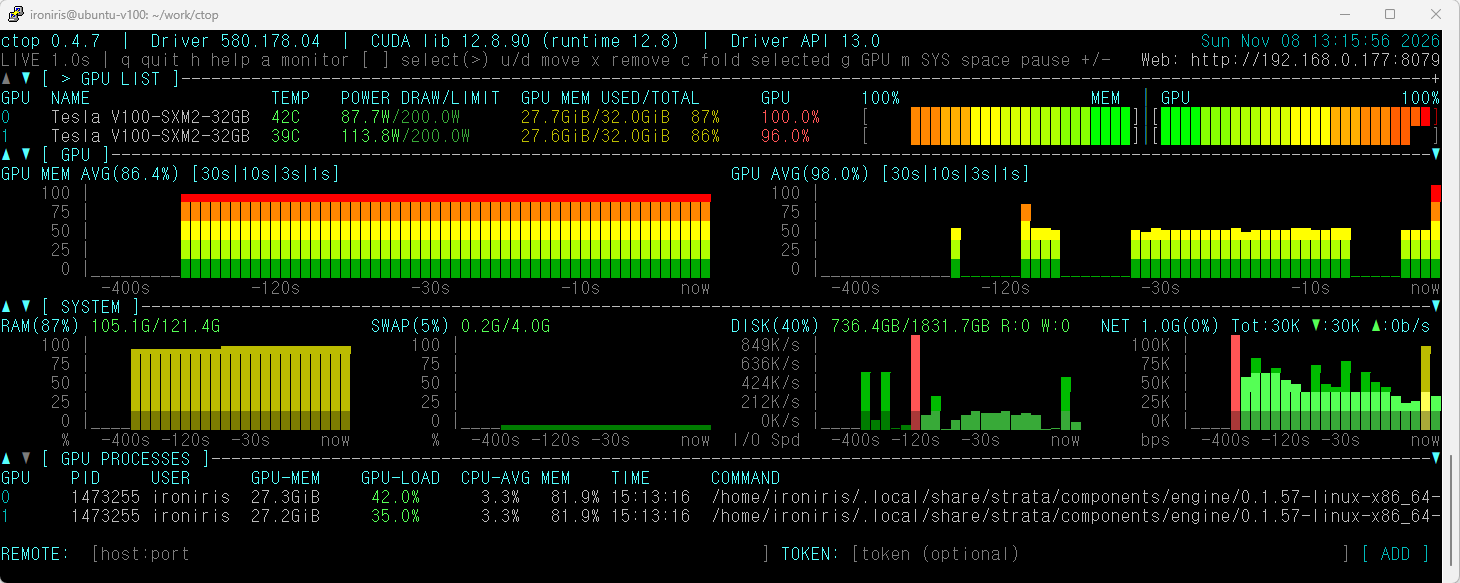
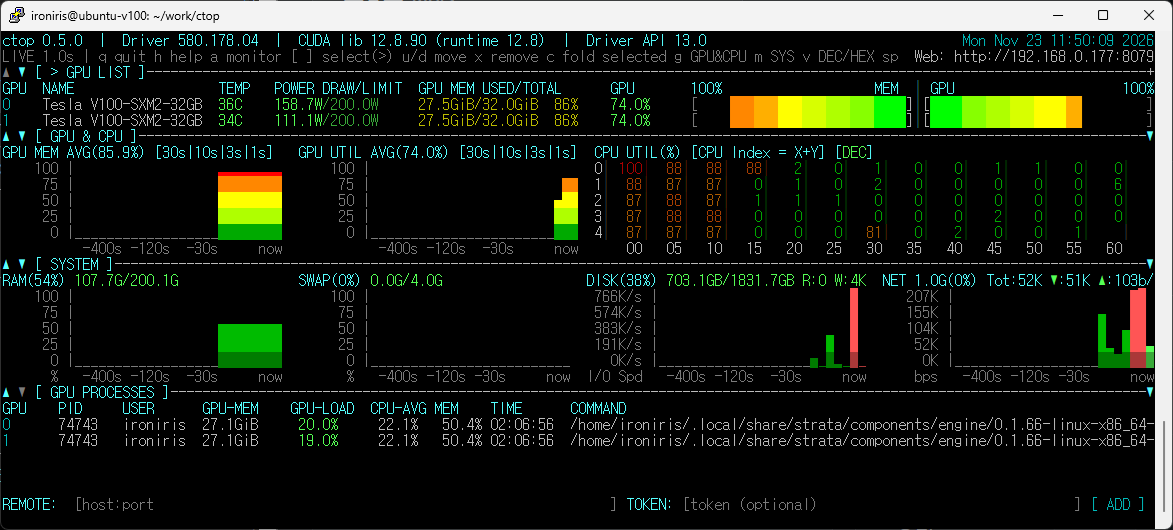
Release v0.5.0

diff --git a/ctop.c b/ctop.c
@@ -41,8 +41,10 @@
 
 #include "web_assets.h"
 
-#define CTOP_VERSION "0.4.8"
+#define CTOP_VERSION "0.5.0"
 #define GRAPH_ROWS 5
+#define CPU_GRID_STEP 5
+#define MAX_CPU_CORES 512
 #define HISTORY_LIMIT 16384
 #define MAX_GPUS 32
 #define MAX_REMOTE_MONITORS 4
@@ -62,6 +64,7 @@
 #define UI_KEY_FOCUS_MONITOR 0x10
 #define UI_KEY_SUBMIT_MONITOR 0x11
 #define UI_KEY_FOCUS_TOKEN 0x12
+#define UI_KEY_CPU_FORMAT 0x13
 #define UI_KEY_MOVE_SECTION_UP_BASE 0xE0
 #define UI_KEY_MOVE_SECTION_DOWN_BASE 0xF0
 
@@ -210,6 +213,9 @@ typedef struct {
     unsigned long long swap_used;
     unsigned long long swap_total;
     double swap_percent;
+    double cpu_core_percent[MAX_CPU_CORES];
+    int cpu_core_count;
+    bool cpu_cores_valid;
 } SystemInfo;
 
 typedef struct {
@@ -270,6 +276,12 @@ typedef struct {
     bool valid;
 } CpuPrevious;
 
+typedef struct {
+    unsigned long long total_ticks;
+    unsigned long long idle_ticks;
+    bool valid;
+} CpuCoreTicks;
+
 #if defined(CTOP_ENABLE_VULKAN)
 typedef struct {
     pid_t pid;
@@ -319,6 +331,9 @@ typedef struct {
     bool usage_collapsed;
     bool system_collapsed;
     bool processes_collapsed;
+    bool cpu_grid_hex;
+    bool cpu_grid_hex_manual;
+    bool cpu_grid_hex_auto;
     int selected_gpu;
     int selected_source_id;
     pid_t selected_pid;
@@ -408,6 +423,7 @@ static CpuPrevious cpu_previous[MAX_CPU_PROCESSES];
 static size_t cpu_previous_count = 0;
 static CpuPrevious cpu_current[MAX_CPU_PROCESSES];
 static size_t cpu_current_count = 0;
+static CpuCoreTicks cpu_core_previous[MAX_CPU_CORES];
 #if defined(CTOP_ENABLE_VULKAN)
 static DrmProcessPrevious drm_process_previous[MAX_GPU_PROCESSES * MAX_GPUS];
 static size_t drm_process_previous_count;
@@ -1170,6 +1186,46 @@ static void fill_process_info(ProcessInfo *process, unsigned long long total_tic
     }
 }
 
+static void read_cpu_core_usage(SystemInfo *system) {
+    FILE *file = fopen("/proc/stat", "r");
+    if (!file) return;
+    char line[512];
+    int seen = 0;
+    while (fgets(line, sizeof(line), file)) {
+        if (strncmp(line, "cpu", 3) != 0) break;
+        if (line[3] < '0' || line[3] > '9') continue;
+        int core = -1;
+        unsigned long long values[10] = {0};
+        int count = sscanf(line,
+                           "cpu%d %llu %llu %llu %llu %llu %llu %llu %llu %llu %llu",
+                           &core, &values[0], &values[1], &values[2], &values[3],
+                           &values[4], &values[5], &values[6], &values[7],
+                           &values[8], &values[9]);
+        if (count != 11 || core < 0 || core >= MAX_CPU_CORES) continue;
+        unsigned long long total = 0;
+        for (int i = 0; i < count - 1; i++) total += values[i];
+        /* idle includes iowait (and guest time, which Linux already accounts for). */
+        unsigned long long idle = values[3] + values[4];
+        CpuCoreTicks *previous = &cpu_core_previous[core];
+        if (previous->valid && total > previous->total_ticks) {
+            unsigned long long total_delta = total - previous->total_ticks;
+            unsigned long long idle_delta = idle > previous->idle_ticks
+                                                ? idle - previous->idle_ticks : 0;
+            if (idle_delta <= total_delta) {
+                double usage = 100.0 * (double)(total_delta - idle_delta) / (double)total_delta;
+                system->cpu_core_percent[core] = usage;
+            }
+        }
+        previous->total_ticks = total;
+        previous->idle_ticks = idle;
+        previous->valid = true;
+        if (core + 1 > seen) seen = core + 1;
+    }
+    fclose(file);
+    system->cpu_core_count = seen;
+    system->cpu_cores_valid = seen > 0;
+}
+
 static bool read_system_info(SystemInfo *system) {
     FILE *file = fopen("/proc/meminfo", "r");
     if (!file) return false;
@@ -1194,6 +1250,7 @@ static bool read_system_info(SystemInfo *system) {
     unsigned long long swap_free = swap_free_kb * 1024ULL;
     system->swap_used = system->swap_total > swap_free ? system->swap_total - swap_free : 0;
     system->swap_percent = system->swap_total ? 100.0 * (double)system->swap_used / (double)system->swap_total : 0.0;
+    read_cpu_core_usage(system);
     return true;
 }
 
@@ -2479,6 +2536,83 @@ static void draw_disk_plot(Screen *screen, int top, int left, int width,
                            history_peak_400(history), GRAPH_AXIS_DISK_RATE, false, "I/O Spd");
 }
 
+static void add_click_target(UiState *ui, int row, int left, int right, unsigned char key);
+
+static bool cpu_grid_hex_mode(const UiState *ui) {
+    return ui->cpu_grid_hex_manual ? ui->cpu_grid_hex : ui->cpu_grid_hex_auto;
+}
+
+static void toggle_cpu_grid_format(UiState *ui) {
+    ui->cpu_grid_hex = !cpu_grid_hex_mode(ui);
+    ui->cpu_grid_hex_manual = true;
+}
+
+/* CPU core utilization grid. Rows are Y=0..4 (top to bottom), columns are
+   X values in steps of CPU_GRID_STEP; cell (X, Y) is CPU index X + Y. */
+static void draw_cpu_core_grid(Screen *screen, int top, int left, int width,
+                               const SystemInfo *system, UiState *ui) {
+    ui->cpu_grid_hex_auto = system->cpu_core_count > 99;
+    bool hex = cpu_grid_hex_mode(ui);
+    const char *mode_label = hex ? "HEX" : "DEC";
+    char title[96];
+    snprintf(title, sizeof(title), "CPU UTIL(%s) [CPU Index = X+Y] [%s]", "%", mode_label);
+    int button_left = left + (int)strlen(title) - 4; /* first character inside [ ] */
+    screen_put_attr(screen, top, left, title, width, ATTR_CYAN_BOLD);
+    if (button_left + 3 <= left + width && button_left >= 0 && button_left < screen->cols)
+        screen_put_attr(screen, top, button_left, mode_label, 3, ATTR_TEXT_GREEN);
+    const int label_width = 2; /* Y label plus the vertical divider */
+    const int min_cell_width = 4;
+    const int max_cell_width = 8;
+    int usable = width - label_width;
+    int needed = 0;
+    if (system->cpu_cores_valid && system->cpu_core_count > 0)
+        needed = (system->cpu_core_count + CPU_GRID_STEP - 1) / CPU_GRID_STEP;
+    if (needed == 0) {
+        screen_put_attr(screen, top + 1, left, "CPU core data unavailable", width, ATTR_DIM);
+        return;
+    }
+    int columns = needed;
+    if (columns > usable / min_cell_width) columns = usable / min_cell_width;
+    if (columns < 1) {
+        screen_put_attr(screen, top + 1, left, "terminal too narrow", width, ATTR_DIM);
+        return;
+    }
+    /* Spread the grid across the available width, up to a readable cell size. */
+    int cell_width = usable / columns;
+    if (cell_width > max_cell_width) cell_width = max_cell_width;
+    if (cell_width < min_cell_width) cell_width = min_cell_width;
+
+    for (int y = 0; y < GRAPH_ROWS; y++) {
+        int row = top + 1 + y;
+        screen_putf(screen, row, left, 1, "%d", y);
+        screen_overlay(screen, row, left + 1, "\xE2\x94\x82", ATTR_DIM);
+        for (int x = 0; x < columns; x++) {
+            int cpu_index = x * CPU_GRID_STEP + y;
+            int cell_left = left + label_width + x * cell_width;
+            if (cpu_index < system->cpu_core_count) {
+                double usage = system->cpu_core_percent[cpu_index];
+                if (usage < 0.0) usage = 0.0;
+                if (usage > 100.0) usage = 100.0;
+                screen_putf_attr(screen, row, cell_left, cell_width - 1,
+                                 gradient_attr((int)usage, 101), "%*.0f",
+                                 cell_width - 1, usage);
+            }
+            screen_overlay(screen, row, cell_left + cell_width - 1,
+                           "\xE2\x94\x82", ATTR_DIM);
+        }
+    }
+    int label_row = top + 1 + GRAPH_ROWS;
+    for (int x = 0; x < columns; x++) {
+        int cell_left = left + label_width + x * cell_width;
+        char x_label[8];
+        snprintf(x_label, sizeof(x_label), hex ? "%02X" : "%02d", x * CPU_GRID_STEP);
+        screen_putf(screen, label_row, cell_left, cell_width - 1, "%*s",
+                    cell_width - 1, x_label);
+    }
+    if (button_left > 0 && button_left + 4 <= screen->cols)
+        add_click_target(ui, top, button_left - 1, button_left + 4, UI_KEY_CPU_FORMAT);
+}
+
 static void draw_load_bar(Screen *screen, int row, int start, double memory, double gpu) {
     int width = screen->cols - start;
     if (width < 10) return;
@@ -3109,7 +3243,7 @@ static void draw_header(Screen *screen, const char *driver, const char *cuda_lib
     ui->click_target_count = 0;
     char controls[256];
     snprintf(controls, sizeof(controls),
-             "%s %.1fs | q quit h help a monitor [ ] select(>) u/d move x remove c fold selected g GPU m SYS space pause +/- rate r reset j next k kill",
+             "%s %.1fs | q quit h help a monitor [ ] select(>) u/d move x remove c fold selected g GPU&CPU m SYS v DEC/HEX space pause +/- rate r reset j next k kill",
              paused ? "PAUSED" : "LIVE", interval);
     int controls_width = screen->cols;
     if (active_web_port && active_web_url[0]) {
@@ -3127,7 +3261,7 @@ static void draw_header(Screen *screen, const char *driver, const char *cuda_lib
         {"[ ] select", '[', 0}, {"[ ] select", ']', 2},
         {"u/d move", 'u', 0}, {"u/d move", 'd', 2},
         {"x remove", 'x', 0}, {"c fold", 'c', 0},
-        {"g GPU", 'g', 0}, {"m SYS", 'm', 0}, {"space pause", ' ', 0},
+        {"g GPU&CPU", 'g', 0}, {"m SYS", 'm', 0}, {"v DEC/HEX", 'v', 0}, {"space pause", ' ', 0},
         {"+/- rate", '+', 0}, {"+/- rate", '-', 2},
         {"r reset", 'r', 0}, {"j next", 'j', 0}, {"k kill", 'k', 0},
     };
@@ -3247,7 +3381,7 @@ static void dashboard_section_title(char *out, size_t size, const DashboardSecti
             if (monitor) prefix = monitor->prefix;
         }
     }
-    const char *name = section->type == SECTION_GPU ? "GPU" :
+    const char *name = section->type == SECTION_GPU ? "GPU & CPU" :
                        section->type == SECTION_SYSTEM ? "SYSTEM" : "GPU PROCESSES";
     if (prefix[0]) snprintf(out, size, "%s(%s)", name, prefix);
     else snprintf(out, size, "%s", name);
@@ -3273,13 +3407,15 @@ static void render_screen(Screen *screen, const GpuInfo *gpus, int gpu_count,
             "h            show/hide this help",
             "click ▲ / ▼ before a section title to move it up/down",
             "click right marker     collapse/expand that section",
+            "click [DEC]/[HEX]      toggle CPU grid label format",
             "a            focus the bottom REMOTE address field",
             "Enter address in REMOTE; optional credentials go in TOKEN",
             "Click ADD to connect; Tab/Enter moves focus to TOKEN and ADD",
             "[ / ]        select a dashboard section (marked with >)",
             "u / d        move selected section up/down",
             "x            remove the selected remote monitor",
-            "g / m        collapse/expand local GPU / SYSTEM",
+            "g / m        collapse/expand local GPU & CPU / SYSTEM",
+            "v            toggle CPU grid DEC/HEX (auto by core count)",
             "Space        pause/resume sampling",
             "+ / -        increase/decrease refresh interval",
             "j            select next GPU process",
@@ -3359,22 +3495,28 @@ static void render_screen(Screen *screen, const GpuInfo *gpus, int gpu_count,
             if (collapsed) {
                 int half = (screen->cols - 2) / 2;
                 screen_putf(screen, y, 0, half, "GPU MEM AVG(%.1f%%)", memory_average);
-                screen_putf(screen, y, half + 2, screen->cols - half - 2, "GPU AVG(%.1f%%)", gpu_average);
+                screen_putf(screen, y, half + 2, screen->cols - half - 2, "GPU UTIL AVG(%.1f%%)", gpu_average);
                 y++;
             } else {
                 int gap = 2;
-                int left_width = (screen->cols - gap) / 2;
-                int right_left = left_width + gap;
-                int right_width = screen->cols - right_left;
+                int panel_space = screen->cols - 3 * gap;
+                int panel_width = panel_space / 4;
+                int remainder = panel_space % 4;
+                int left_width = panel_width + (remainder > 0 ? 1 : 0);
+                int gpu_width = panel_width + (remainder > 1 ? 1 : 0);
+                int gpu_left = left_width + gap;
+                int cpu_left = gpu_left + gpu_width + gap;
+                int cpu_width = screen->cols - cpu_left;
                 char memory_title[64], gpu_title[64];
                 if (memory_count)
                     snprintf(memory_title, sizeof(memory_title), "GPU MEM AVG(%.1f%%) [30s|10s|3s|1s]", memory_average);
                 else snprintf(memory_title, sizeof(memory_title), "GPU MEM AVG(N/A) [30s|10s|3s|1s]");
                 if (gpu_count_valid)
-                    snprintf(gpu_title, sizeof(gpu_title), "GPU AVG(%.1f%%) [30s|10s|3s|1s]", gpu_average);
-                else snprintf(gpu_title, sizeof(gpu_title), "GPU AVG(N/A) [30s|10s|3s|1s]");
+                    snprintf(gpu_title, sizeof(gpu_title), "GPU UTIL AVG(%.1f%%) [30s|10s|3s|1s]", gpu_average);
+                else snprintf(gpu_title, sizeof(gpu_title), "GPU UTIL AVG(N/A) [30s|10s|3s|1s]");
                 draw_plot(screen, y, 0, left_width, view->vram_history, memory_title, NULL, NULL, true);
-                draw_plot(screen, y, right_left, right_width, view->gpu_history, gpu_title, NULL, NULL, true);
+                draw_plot(screen, y, gpu_left, gpu_width, view->gpu_history, gpu_title, NULL, NULL, true);
+                draw_cpu_core_grid(screen, y, cpu_left, cpu_width, view->system, ui);
                 y += 2 + GRAPH_ROWS;
             }
         } else if (section->type == SECTION_SYSTEM) {
@@ -3767,6 +3909,7 @@ static void handle_key(unsigned char key, UiState *ui, bool *paused, bool *help_
         }
     } else if (key == 'g' || key == 'G') ui->usage_collapsed = !ui->usage_collapsed;
     else if (key == 'm' || key == 'M') ui->system_collapsed = !ui->system_collapsed;
+    else if (key == 'v' || key == 'V') toggle_cpu_grid_format(ui);
     else if (key == ' ') *paused = !*paused;
     else if (key == '+' || key == '=') {
         *interval += 0.1;
@@ -3836,6 +3979,8 @@ static void dispatch_key(unsigned char key, UiState *ui, bool *paused, bool *hel
         ui->notice_error = false;
     } else if (key == UI_KEY_SUBMIT_MONITOR) {
         submit_monitor_input(ui);
+    } else if (key == UI_KEY_CPU_FORMAT) {
+        toggle_cpu_grid_format(ui);
     } else if (ui->monitor_prompt) handle_monitor_prompt_key(key, ui);
     else if (key == 'q' || key == 'Q' || (key == 0x1b && !ui->kill_prompt)) *quit = true;
     else handle_key(key, ui, paused, help_visible, interval, vram, gpu, ram, swap,
@@ -4599,6 +4744,23 @@ static bool remote_parse_metrics(RemoteMonitor *monitor, const char *json) {
         json_get_uint(object, "total", &system.swap_total);
         system.swap_percent = system.swap_total ? 100.0 * (double)system.swap_used / (double)system.swap_total : 0.0;
     }
+    if (json_object_field(json, "cpu", &object, NULL)) {
+        int count = 0;
+        json_get_int(object, "count", &count);
+        json_get_bool(object, "valid", &system.cpu_cores_valid);
+        if (count < 0) count = 0;
+        if (count > MAX_CPU_CORES) count = MAX_CPU_CORES;
+        const char *cores, *cores_end;
+        if (json_object_field(object, "cores", &cores, &cores_end) && *cores == '[') {
+            const char *cursor = cores + 1, *item, *item_end;
+            while (system.cpu_core_count < count &&
+                   json_array_next(&cursor, cores_end - 1, &item, &item_end)) {
+                (void)item_end;
+                system.cpu_core_percent[system.cpu_core_count++] = strtod(item, NULL);
+            }
+        }
+        if (system.cpu_core_count == 0) system.cpu_cores_valid = false;
+    }
     if (json_object_field(json, "disk", &object, NULL)) {
         json_get_bool(object, "capacity_valid", &disk.capacity_valid);
         json_get_bool(object, "valid", &disk.valid);
@@ -4948,7 +5110,13 @@ static char *web_metrics_json(const GpuInfo *gpus, int gpu_count,
     fprintf(stream, "},\"swap\":{\"used\":%llu,\"total\":%llu,\"percent\":",
             system->swap_used, system->swap_total);
     json_number(stream, system->swap_percent, true);
-    fprintf(stream, "},\"disk\":{\"used\":%llu,\"total\":%llu,\"capacity_valid\":%s,\"valid\":%s,\"read_bps\":",
+    fprintf(stream, "},\"cpu\":{\"count\":%d,\"valid\":%s,\"cores\":[",
+            system->cpu_core_count, system->cpu_cores_valid ? "true" : "false");
+    for (int i = 0; i < system->cpu_core_count; i++) {
+        if (i) fputc(',', stream);
+        json_number(stream, system->cpu_core_percent[i], true);
+    }
+    fprintf(stream, "]},\"disk\":{\"used\":%llu,\"total\":%llu,\"capacity_valid\":%s,\"valid\":%s,\"read_bps\":",
             disk->used_bytes, disk->total_bytes,
             disk->capacity_valid ? "true" : "false", disk->valid ? "true" : "false");
     json_number(stream, disk->read_bps, disk->valid);

diff --git a/README.en.md b/README.en.md
@@ -16,6 +16,7 @@ A lightweight terminal dashboard for AMD/NVIDIA GPUs, system memory, processes, 
 - RAM and SWAP usage with history graphs
 - Live disk I/O graph with a Y-axis scaled to the maximum peak measured over the last 400 seconds
 - GPU memory and utilization history graphs
+- Per-core CPU utilization grid in the GPU & CPU section (local and remote monitors)
 - Network throughput in bit/s with per-interface link-speed utilization
 - RX/TX indicators and per-interface network rows
 - Docker-related interfaces (`docker*`, `br-*`, and `veth*`) excluded from host network totals
@@ -172,11 +173,11 @@ curl -H "Authorization: Bearer TOKEN" http://localhost:8079/api/v1/metrics
 curl "http://localhost:8079/api/v1/metrics?token=TOKEN"
 ```
 
-The response is JSON (`application/json`) and includes current GPU, process, RAM/SWAP, disk, and network metrics along with graph history. `/api/metrics` returns the same payload. Each history sample carries its age in seconds (`age_seconds`) and its measured value (`value`); NET history values are throughput in bit/s, and `sample_interval` reports the sampling interval in seconds. When more than 500 samples fall inside the 400-second window they are bucketed, but each bucket keeps its minimum and maximum value. GPU averages are computed over the devices that returned valid readings. By default, the server listens on all network interfaces (`0.0.0.0`). Add `--localhost` to restrict it to `127.0.0.1`. Without `--token`, the dashboard and API are open without authentication. The metrics API allows cross-origin browser requests for multi-monitoring, so use `--token` on instances exposed to a network.
+The response is JSON (`application/json`) and includes current GPU, process, RAM/SWAP, per-core CPU (`cpu.cores`), disk, and network metrics along with graph history. `/api/metrics` returns the same payload. Each history sample carries its age in seconds (`age_seconds`) and its measured value (`value`); NET history values are throughput in bit/s, and `sample_interval` reports the sampling interval in seconds. When more than 500 samples fall inside the 400-second window they are bucketed, but each bucket keeps its minimum and maximum value. GPU averages are computed over the devices that returned valid readings. By default, the server listens on all network interfaces (`0.0.0.0`). Add `--localhost` to restrict it to `127.0.0.1`. Without `--token`, the dashboard and API are open without authentication. The metrics API allows cross-origin browser requests for multi-monitoring, so use `--token` on instances exposed to a network.
 
 ## TUI remote monitors and controls
 
-The remote monitor list is shared with the web dashboard; adding or removing a monitor in either UI updates the other. Enter the server address in the bottom `REMOTE` field and, if required, its token in the adjacent `TOKEN` field; then click `ADD` to connect. Entering an address alone does not connect or create a monitor section. Click either field or press `a` to focus the address. Tab/Enter moves focus through TOKEN and ADD; press Enter on the focused ADD button to connect. A URL such as `http://host:port` is also accepted; `/api/v1/metrics` is appended automatically. Remote GPUs are combined in GPU LIST, while GPU graphs, SYSTEM, and GPU PROCESSES appear in separate sections per monitor. You can also pass `--monitor ADDRESS` at startup (repeatable). TUI remote connections currently support HTTP only; tokens are sent unencrypted, so do not use them over untrusted networks.
+The remote monitor list is shared with the web dashboard; adding or removing a monitor in either UI updates the other. Enter the server address in the bottom `REMOTE` field and, if required, its token in the adjacent `TOKEN` field; then click `ADD` to connect. Entering an address alone does not connect or create a monitor section. Click either field or press `a` to focus the address. Tab/Enter moves focus through TOKEN and ADD; press Enter on the focused ADD button to connect. A URL such as `http://host:port` is also accepted; `/api/v1/metrics` is appended automatically. Remote GPUs are combined in GPU LIST, while GPU & CPU graphs, SYSTEM, and GPU PROCESSES appear in separate sections per monitor. You can also pass `--monitor ADDRESS` at startup (repeatable). TUI remote connections currently support HTTP only; tokens are sent unencrypted, so do not use them over untrusted networks.
 
 ```text
 q / Esc                   quit
@@ -187,7 +188,8 @@ Tab / Enter               move focus through TOKEN and ADD
 u / d                     move the selected section up/down
 x                         remove the selected remote monitor
 c                         collapse/expand the selected section
-g / m                     collapse/expand local GPU / SYSTEM sections
+g / m                     collapse/expand local GPU & CPU / SYSTEM sections
+v                         toggle CPU grid DEC/HEX labels
 Space                     pause/resume sampling
 + / -                     change refresh interval
 r                         clear graph history
@@ -196,6 +198,12 @@ k / K                     confirm SIGTERM for a selected local process
 ```
 
 Use `[ / ]` to move between sections; the currently selected section is marked with `>` before its title. `c` collapses or expands only the selected section (`GPU LIST` cannot be collapsed). Section order lasts for the current TUI session. When the terminal supports SGR mouse input, click `▲`/`▼` before a title to move that section up or down, and the right triangle to collapse or expand it.
+
+## CPU utilization grid
+
+The right half of the `GPU & CPU` section shows a five-row grid of per-core CPU utilization. Columns are separated by vertical rules; each cell contains a single utilization percentage. A cell's CPU index is `X (column label) + Y (row label)`, with Y running from `0` to `4` top to bottom and X stepping by 5 cores. For example, column `05` row `2` is CPU 7. The numbers use the same gradient as the graphs and are colored by the **utilization value** (e.g. 10% green, 90% red). The grid shows only the columns needed for the actual core count and widens cells to fill any leftover space.
+
+The X label format defaults to the core count: decimal (`00, 05, 10, …`) for 99 cores or fewer, hexadecimal (`00, 05, 0A, …`) for 100 or more. Click the `[DEC]`/`[HEX]` button in the title or press `v` to override it manually. Remote monitor sections use the same grid and read the remote ctop `cpu.cores` API values.
 
 ## Disk display
 
